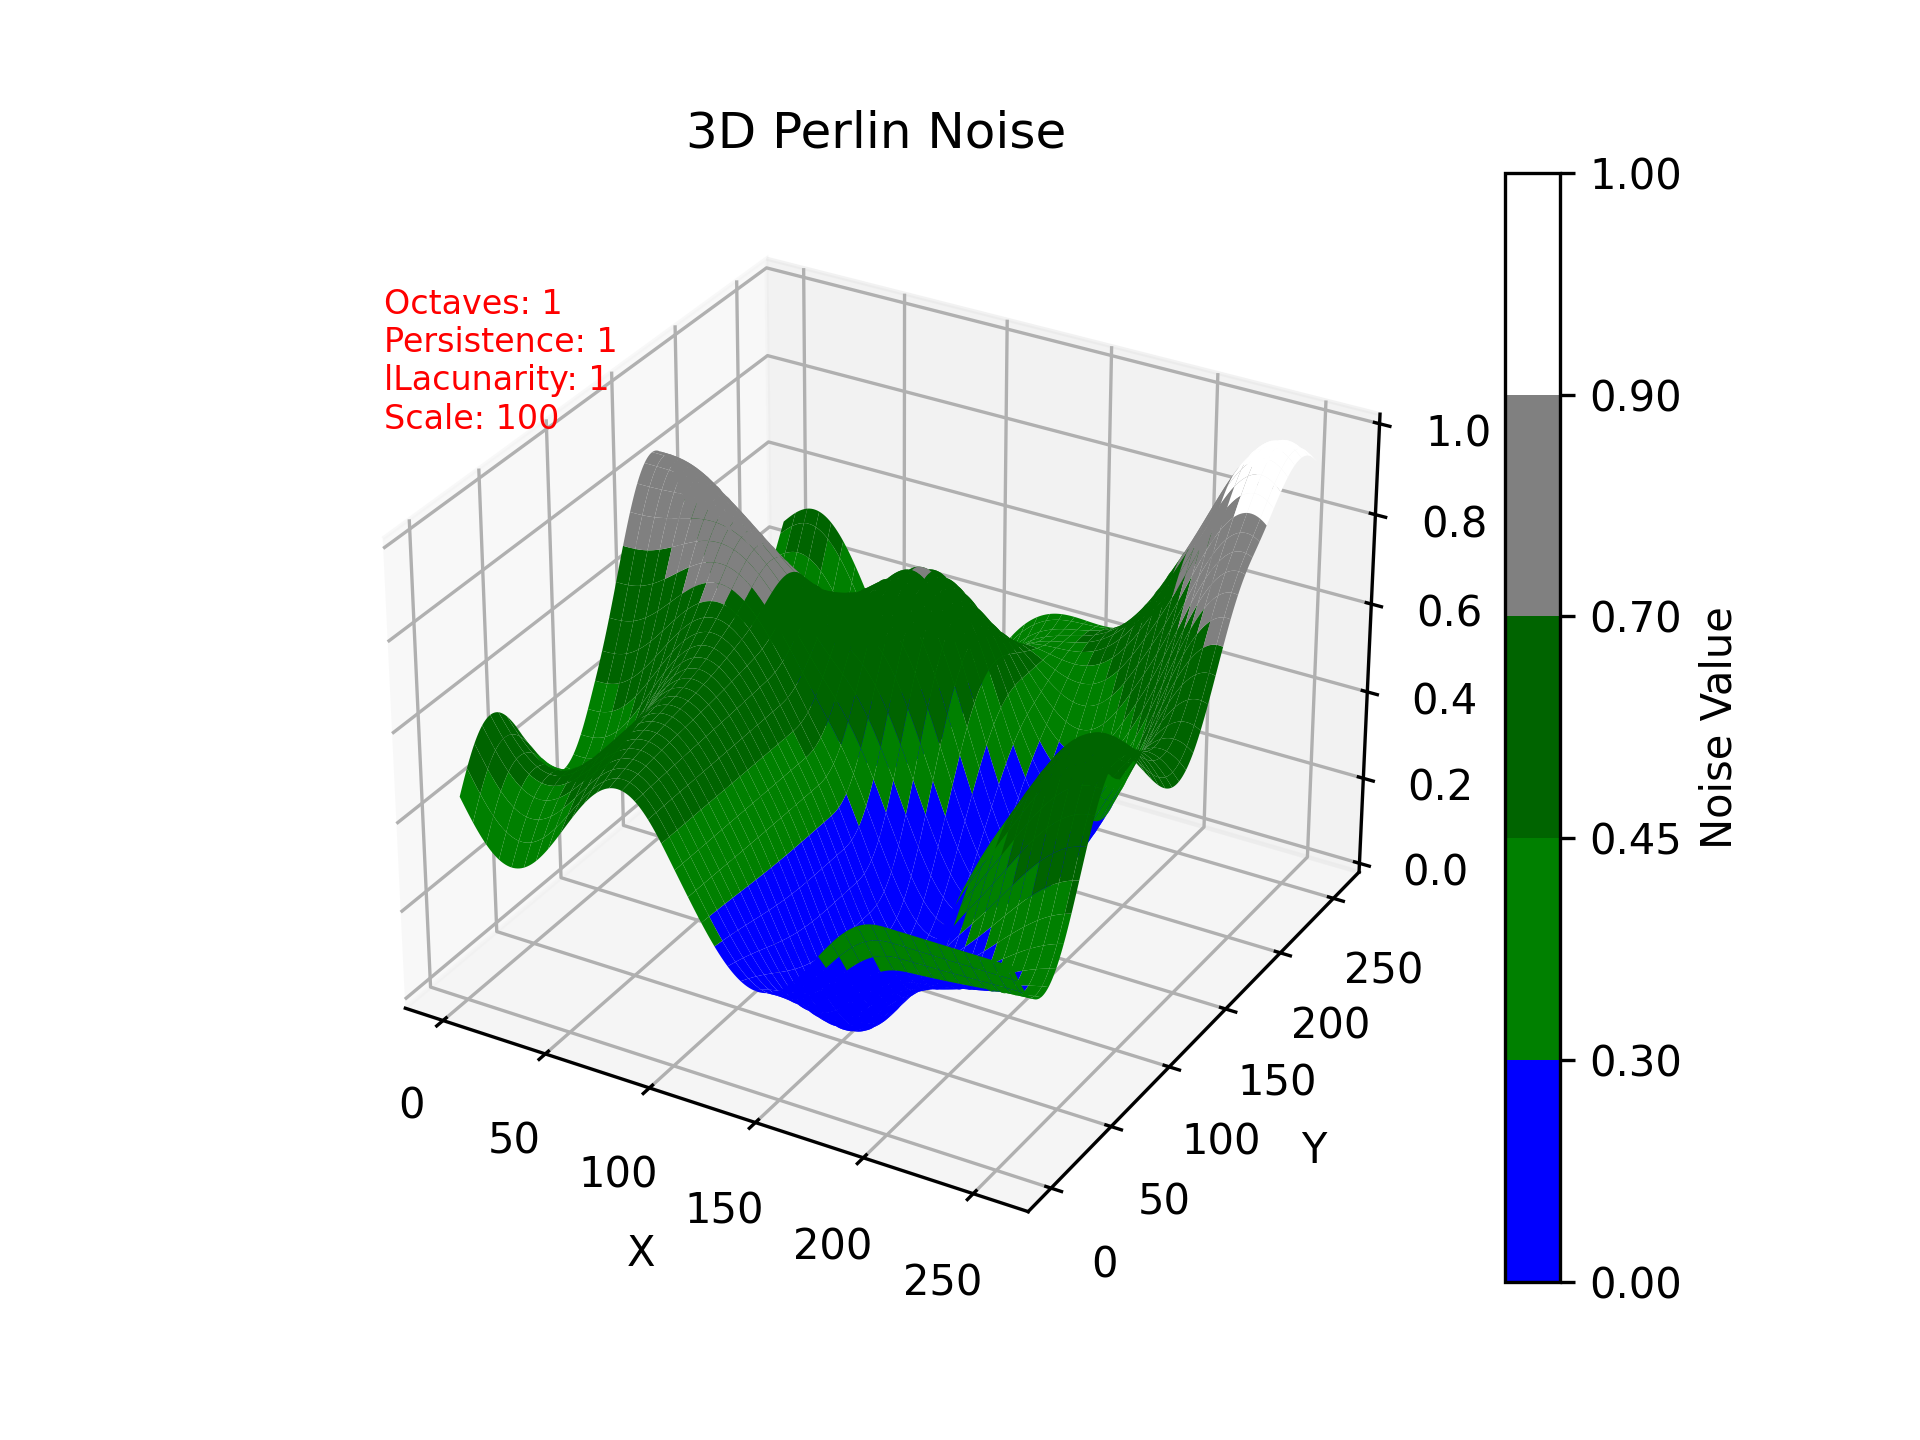
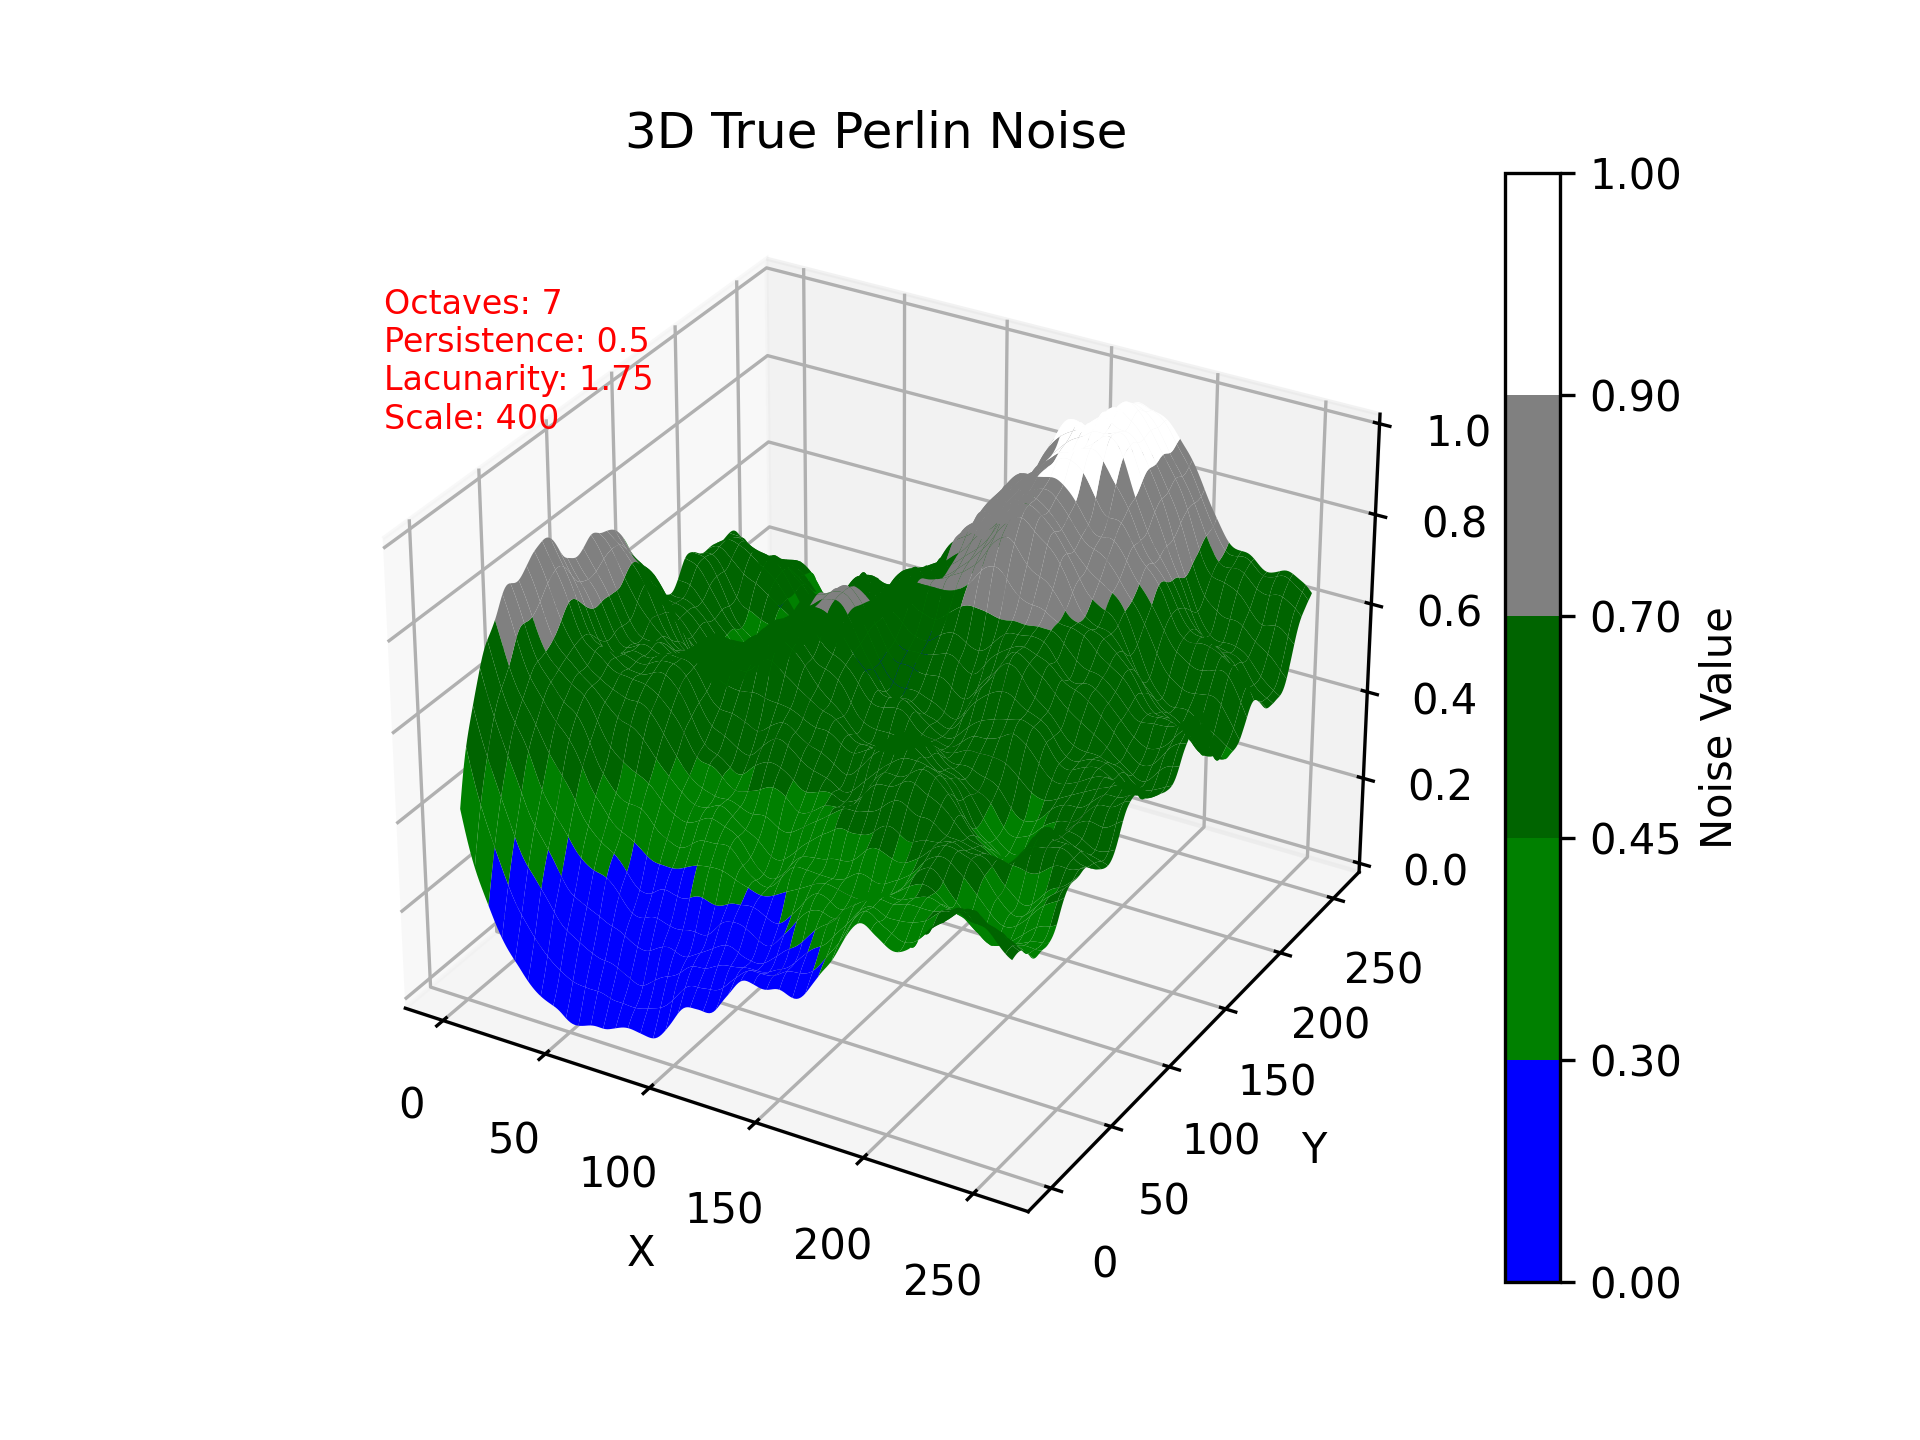
Fixed true perlin noise

Changed region(s): [[0.2188, 0.2812, 0.6875, 0.7188], [0.3438, 0.0625, 0.5938, 0.125], [0.1875, 0.2188, 0.3438, 0.2812]]

diff --git a/true_perlin_noise.py b/true_perlin_noise.py
@@ -28,6 +28,7 @@ def generate_perlin_noise(size, scale=100, octaves=6, persistence=0.5, lacunarit
                                         repeatx=width, 
                                         repeaty=height, 
                                         base=42)
+            
     # Normalize the noise values to the range [0, 1]
     min_val = noise_array.min()
     max_val = noise_array.max()
@@ -84,19 +85,20 @@ def display_noise(noise_array, output_dir, size, land_type_boundaries, land_type
 if __name__ == "__main__":
     # Parameters for the Perlin noise
     size = (256, 256)
-    scale = 100
-    octaves = 1
-    persistence = 1         # Amplitude of each octave
-    lacunarity = 1          # Frequency of each octave
-
-    # Generate Perlin noise
-    noise = generate_perlin_noise(size, scale, octaves, persistence, lacunarity)
-
+    octaves = 7
+    persistence = 0.50         # Amplitude of each octave
+    lacunarity = 1.75          # Frequency of each octave
+    scale = 400               # Scale of the noise (higher values zoom out)
 
     # Hyperparameters to dictate the land type colors and boundaries
     water_level = 0.30                                     # Water level for fractal Perlin noise generation
     land_type_boundaries = [0, water_level, 0.45, 0.70, 0.90, 1]  # Boundaries for different land types
     land_type_colors = ['blue', 'green', 'darkgreen','grey', 'white']  # Colors for different land types 
+
+
+
+    # Generate Perlin noise
+    noise = generate_perlin_noise(size, scale, octaves, persistence, lacunarity)
 
 
     # Save Perlin noise in 2D
